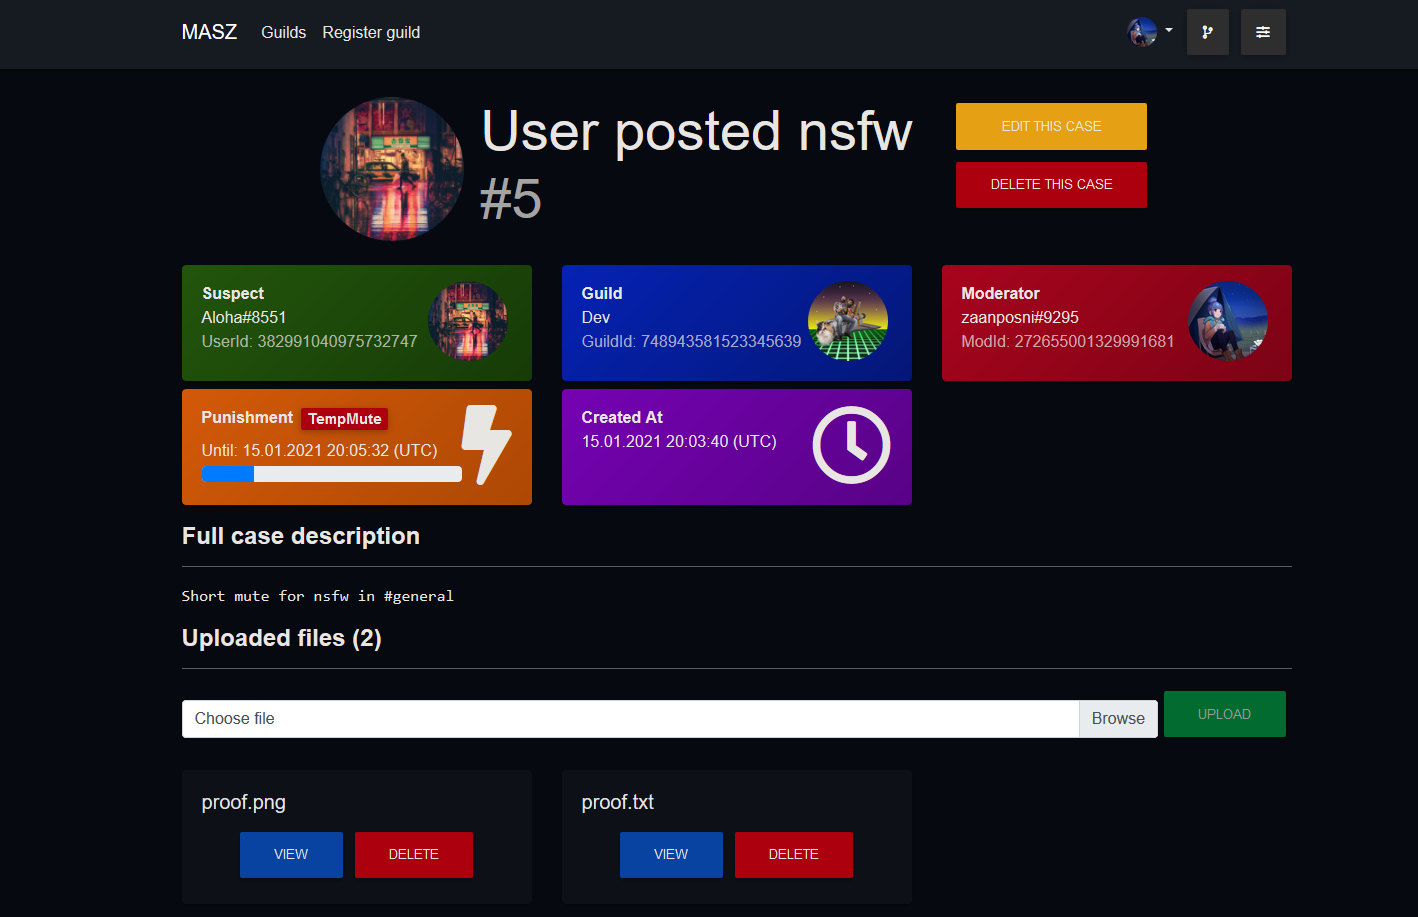
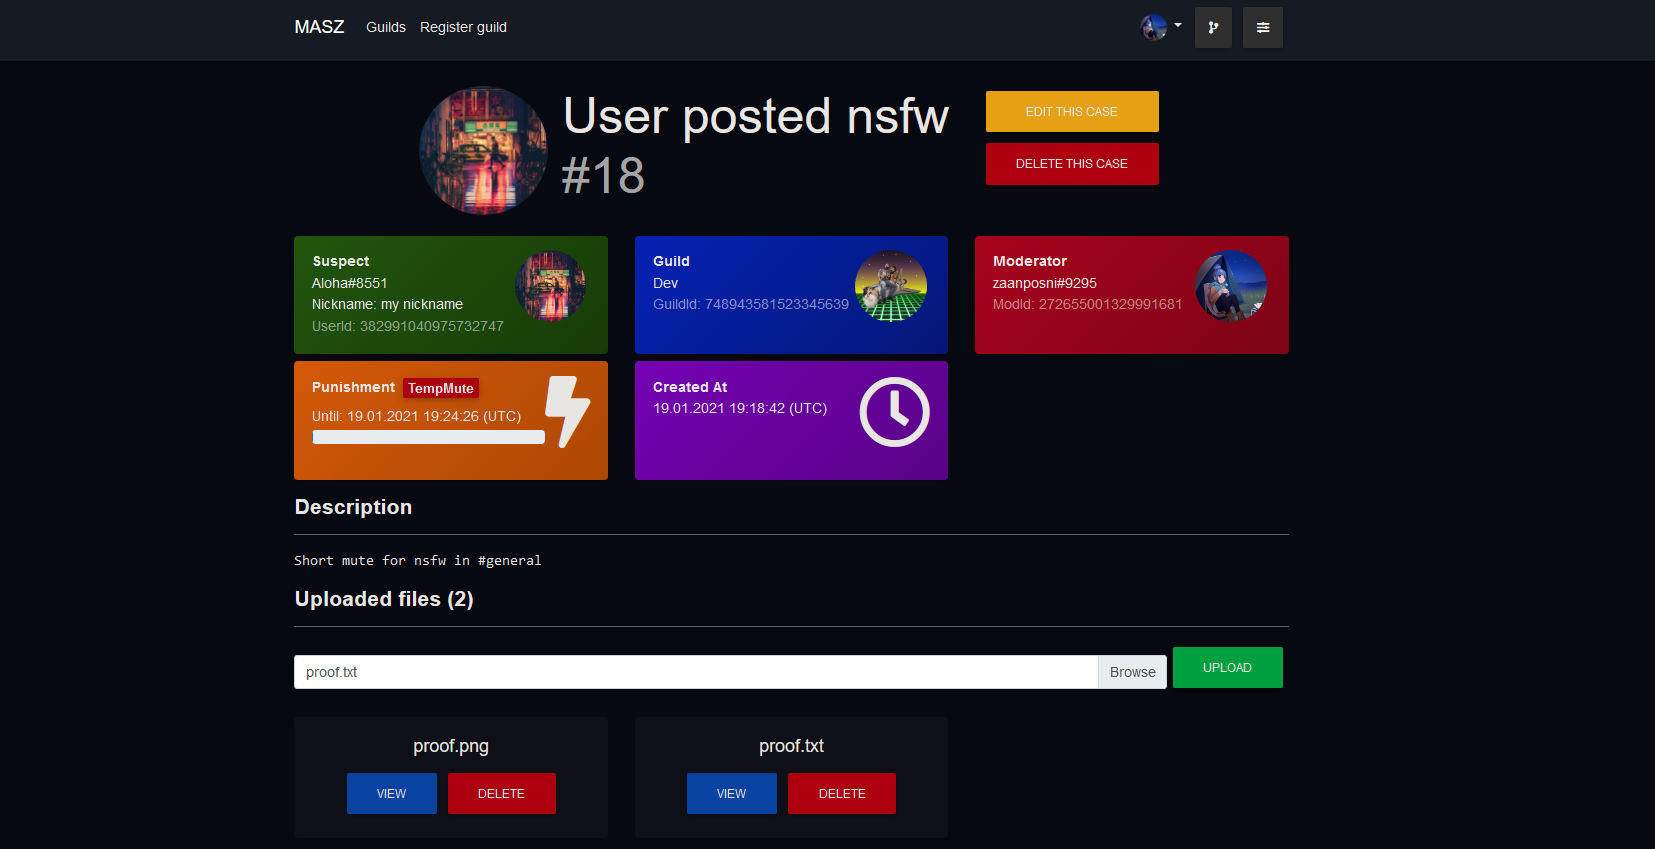
.

diff --git a/nginx/frontend/src/app/components/modcase/case-view/case-view.component.html b/nginx/frontend/src/app/components/modcase/case-view/case-view.component.html
@@ -183,7 +183,7 @@
 
     <!-- Description -->
     <div class="mb-3">
-        <h4 class="font-weight-bold">Full case description</h4>
+        <h4 class="font-weight-bold">Description</h4>
         <hr/>
         <span style="white-space: pre-wrap; word-wrap: break-word" class="text-monospace">{{ (this.caseView | async)?.modCase?.description }}</span>
     </div>
